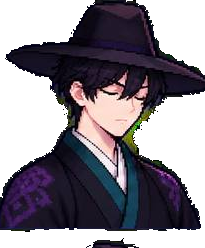
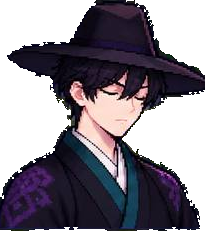
fix(ui): 대화창 초상화 에지 노이즈 재정리 + 크기 확대·밀착
- 색상 시그니처 기반 초록 잔여물 제거(_strip_bleed_green) + 알파
  연결요소 최대값만 남기기(_keep_largest_component) 매팅 파이프라인 추가
- 초상화를 하단 대화 바 위에 틈 없이 붙이고 뷰포트 1/3 높이로 확대
  배치(dialogue_balloon.gd _place_portrait)

diff --git a/HANDOFF.md b/HANDOFF.md
@@ -75,6 +75,8 @@
 # 📍 PART 2. 현재 상황 (어디까지 했는가)
 
 ## 현재 상태 (한 줄 요약)
+> **추가(같은 날, 대화창 초상화 2차 피드백 반영):** 사용자가 스샷 보고 "초록색 아직 있고, 일러스트가 대화창에 딱 붙고 화면 1/3은 돼야 할 듯"이라고 재요청. **①초록 잔여물 원인 재규명:** 1차 매팅(경계 침식만)으로는 못 잡는 두 종류가 남아 있었음 — (a) 시트 왼쪽 전신 일러스트의 지팡이 결정 초록빛이 그리드 0열 칸 왼쪽 경계 너머로 번져 들어와 **몸통과 픽셀이 이어진 채** 남은 얼룩(연결요소 분리로도 안 잡힘 — 어둡지도 않고 고립되지도 않음), (b) casting/profile_staff 칸 사이로 살짝 넘어온 파편. `probe_green.gd`/`probe_trim.gd`로 실측: 노이즈는 `g>=0.20`이고 `g`가 `r·b`보다 뚜렷이 높은(`g-min(r,b)>0.10`, `b<g*0.85`) 채도 높은 픽셀, 로브의 진짜 청록 자수는 `g<0.20`인 저채도 어두운 톤이라 색 시그니처로 안전하게 구분됨 — `_strip_bleed_green()` 신설(색상 직접 판정, casting/profile_staff 두 칸은 초록이 디자인 자체라 제외) + `_keep_largest_component()`(알파 연결요소 중 가장 큰 것=몸통만 남김, 고립된 색 섬 제거) 두 단계를 매팅 파이프라인에 추가, 침식 반복도 2→3회로. 재실행 후 neutral/glance/downcast/smirk/thinking/shocked/back 전부 육안 확인 완료(깨끗함), `signature_full.png`(클로즈업)는 미세한 잔여가 있지만 실제 게임에 쓰이지 않는 참고용 에셋이라 우선순위 낮춤. **②크기·밀착:** `scripts/ui/dialogue_balloon.gd`에 `PORTRAIT_HEIGHT_RATIO=1/3`, `PORTRAIT_ASPECT=0.81` 상수 추가, `_place_bar()`가 하단 바 위치를 구한 뒤 `_place_portrait(vp, bar_top)`를 호출해 초상화 rect를 `높이=vp.y/3, 하단=bar_top`(틈 0)로 매 대화 시작마다 재계산 — 예전엔 `.tscn`에 하드코딩된 좌표(상단에 뜬 채 바와 268px 간격)였던 게 원인. `DialogueBalloon.tscn`의 `Portrait` 앵커를 `Bubble`과 같은 기본값(0,0,0,0)으로 단순화. **검증:** 헤드리스 59스위트 전 시나리오 재실행 그린(`test_dialogue_portrait` 4/4 포함), 매팅 결과는 파일 직접 열람으로 확인. X서버 이번엔 죽어 있어 실제 화면 스크린샷은 못 찍음(레이아웃 계산은 좌표 수식으로 검증, 실기기 눈 확인은 다음 세션 권장). 로컬 커밋만, **푸시는 사용자 승인 대기**.
+>
 > **추가(같은 날, 대화창 개편):** 사용자 피드백 3건 중 1번(대화창 개편) 완료. `scripts/ui/dialogue_balloon.gd` + `scenes/ui/DialogueBalloon.tscn` 전면 개편 — 화자 머리 위로 떠다니던 말풍선을 **화면 하단 고정 바**(스테이지 선택 화면과 같은 PixelLab `create_ui_asset` 창틀 스타일 재사용, `assets/ui/dialogue_panel.png` — 이번엔 UI 키트 시트를 한 번에 받아 그중 필요한 패널만 크롭해 재사용, 신규 40gen)로 옮기고, **주인공("길손")이 화자일 때 화면 상단에 고퀄리티 초상화**를 띄우도록 바꿨다. 초상화는 **사용자가 외부(비-PixelLab) AI로 직접 만들어 온 글로시 애니메이션 CG 원본**(3×3 표정 그리드 + 클로즈업 1장)을 그대로 써달라는 명시적 요청 — PixelLab이 아니라 배경 매팅만 우리가 처리(`tools/pixel/extract_protagonist_portraits.gd`, `extract_protagonist_closeup.gd`). **매팅 실패담(교훈):** 처음엔 밝기<24 를 배경으로 보는 테두리 플러드필을 썼다가 캐릭터 옷·모자(실측 lum 10~34)까지 배경으로 오인해 큰 구멍이 났다 — `probe_luminance`로 실측해보니 진짜 배경은 정확히 (0,0,0)이었고, 임계값을 2.0으로 낮추고 경계만 얕게(2회) 침식하는 방식으로 교체해서 해결(다음에 비슷한 매팅 작업할 때 반드시 실측 먼저). 표정 9종(`neutral/glance/downcast/smirk/thinking/shocked/back/casting/profile_staff.png`) + 보너스 풀샷(`signature_full.png`)을 `assets/ui/portraits/protagonist/`에 저장, `docs/STYLE_BIBLE.md` §9에 "이 초상화만 픽셀아트 규칙 예외" 의도적 조항 명시(과거 주인공 아트 되돌림 이력이 있어 다음 세션이 오인해 되돌리지 않도록). 대화 노드 JSON에 `"expression":"smirk"` 식으로 표정 지정 가능(없으면 말=neutral, 혼잣말=thinking 기본값), `Dialogue.meta("expression")` 로 읽음. 신규 `tests/test_dialogue_portrait.gd`(4케이스: 주인공 기본 표정/expression 메타 반영/NPC 초상화 숨김/나레이션 숨김)로 고정 — **헤드리스 59스위트(211케이스) 전부 그린**. 이번 세션은 드물게 **X서버가 살아 있어서**(`DISPLAY=:0` + `tools/DlgShot.gd`) 실제로 스크린샷 캡처·육안 검증까지 했음(하단 바 아트·상단 초상화·말/혼잣말 모드 전환 전부 확인) — 텔레그램으로 스크린샷 전송함. 로컬 커밋만, **푸시는 사용자 승인 대기**. **다음 할 일(2/3번, 이번 세션 미착수):** ② 모바일 키 설정 화면에 드래그로 버튼 위치 직접 조정하는 기능, ③ 웹에서 세로→가로→세로→가로 회전 시 "가로로 돌려주세요" 안내 문구가 그 후로도 안 사라지는 버그.
 >
 > ## ▶ 다음 세션 시작점 (2026-08-20 갱신 · 여기부터 읽으면 됨)
@@ -323,6 +325,8 @@
 
 ## 완료된 작업 로그 (최신이 위로)
 > 작업 마칠 때마다 한 줄씩 위에 추가 (날짜 + 한 일).
+
+- **2026-08-20 (텔레그램/WSL — 대화창 초상화 2차 피드백: 초록 잔여물 제거 + 하단 바 밀착·1/3 확대)** — 1차 매팅으로 못 잡은 초록 얼룩 2종(연결요소는 몸통에 붙어 있어 고립 판정 실패 + 색은 밝고 채도 높아 어둡기 기준 침식도 실패)을 `probe_green.gd`/`probe_trim.gd` 실측으로 색 시그니처 규명(`g>=0.20`&`g-min(r,b)>0.10`&`b<g*0.85` = 노이즈, 로브 진짜 청록 자수는 `g<0.20`) 후 `_strip_bleed_green()`(색상 직접 판정) + `_keep_largest_component()`(알파 연결요소 최대값만 남김) 두 단계를 `tools/pixel/extract_protagonist_portraits.gd`/`extract_protagonist_closeup.gd`에 추가(casting/profile_staff 두 칸은 초록이 디자인이라 제외), 재추출 후 7종 육안 확인 완료. `dialogue_balloon.gd`에 `PORTRAIT_HEIGHT_RATIO=1/3`+`_place_portrait(vp, bar_top)` 도입해 초상화를 매 대화마다 "하단 바 바로 위, 뷰포트 1/3 높이"로 재계산 배치(예전엔 `.tscn` 고정좌표라 바와 268px 떠 있었음). 헤드리스 59스위트 전부 그린. X서버 죽어있어 육안 캡처는 못 함 — 좌표 수식·에셋 파일 직접 열람으로만 검증, 실기기 확인은 다음 세션. 로컬 커밋만, 푸시는 사용자 승인 대기.
 
 - **2026-08-20 (텔레그램/WSL — 대화창 개편: 하단 바 + 주인공 상단 초상화, 사용자 외부 아트 적용)** — 사용자 피드백 3건 중 1번. 머리 위로 뜨던 말풍선을 화면 하단 고정 바(스테이지 선택 화면과 같은 PixelLab UI 키트에서 패널 하나를 크롭해 재사용, `assets/ui/dialogue_panel.png`)로 옮기고, 주인공("길손") 대사일 때 상단에 초상화 표시. 초상화는 **사용자가 외부 AI로 만들어 온 원본을 그대로 적용**(PixelLab 아님) — 배경만 우리가 매팅. 첫 시도(밝기<24 배경 판정)는 캐릭터 옷까지 지워버려 실패, `probe_luminance`로 실측(진짜 배경=정확히 0,0,0)한 뒤 임계값 2.0+얕은 경계 침식 2회로 재작업해 성공(`tools/pixel/extract_protagonist_portraits.gd`, `extract_protagonist_closeup.gd`). 표정 9종+풀샷 1종을 `assets/ui/portraits/protagonist/`에 저장, `STYLE_BIBLE.md` §9에 "픽셀아트 규칙 의도적 예외" 명시(되돌림 방지). JSON `"expression"` 메타로 표정 지정 가능. `tests/test_dialogue_portrait.gd` 4케이스 신설. **헤드리스 59스위트(211케이스) 전부 그린.** 이번엔 드물게 X서버가 살아있어 `tools/DlgShot.gd`로 실제 스크린샷 캡처·육안 확인까지 완료(텔레그램 전송). 로컬 커밋만, **푸시는 사용자 승인 대기**. 2/3번 피드백(모바일 키 드래그 배치, 웹 회전 안내문구 안 사라짐)은 다음 세션.
 - **2026-08-20 (텔레그램/WSL — 폰 스샷 버그 2건 수정: UI 마젠타 번짐 + 3스테이지 보스 발 정렬)** — 사용자가 폰 스샷 2장으로 신고: 스테이지 선택 창 테두리 핑크색, 3스테이지 보스가 평소 붕 뜨고 공격 시 바닥에 파고듦. **①** `stage_select_window.png`에서 완전불투명 마젠타(245,6,247) 537픽셀을 정확한 색상 매칭으로 투명 처리(안티에일리어싱 없이 고립된 픽셀이라 안전). **②** 근본 원인 규명: `assemble_dokkaebi_chief.gd`가 idle/walk/death(원본 160×160)와 telegraph/attack(원본 220×220, 무기 반경용으로 더 크게 생성됨)의 `get_used_rect()`를 그대로 merge해 서로 다른 캔버스 좌표계를 섞어 쓰고 있었음(캐릭터는 실제로는 두 그룹 다 자기 캔버스 중심에 동일하게 배치돼 있었다는 걸 실측으로 확인). 조립 스크립트를 "프레임마다 자기 캔버스 중심=출력 캔버스 중심" 정렬 방식으로 재작성해 `.pl_tmp/`의 원본 프레임으로 5개 시트 재조립(220×220 통일), `DokkaebiChief.tscn`의 `foot_offset` -11.6→-25.6로 재계산(공식 역산, `test_enemy_footing` 권장치와 일치). `test_enemy_footing.gd`에 "idle 이외 애니메이션 프레임0 발끝이 idle과 일치하는지" 교차검증 신설(기존엔 idle만 봐서 이 버그를 못 잡았음) — 25종 적 전부 통과, 재발 방지. PixelLab 신규 생성 0건(기존 프레임 재사용). 헤드리스 58스위트 207케이스 전부 그린. X서버 죽어있어 육안 확인은 못 함(테스트+데이터 재계산으로만 검증, 실기기 확인은 사용자 몫). 로컬 커밋만, **푸시는 사용자 승인 대기**.
